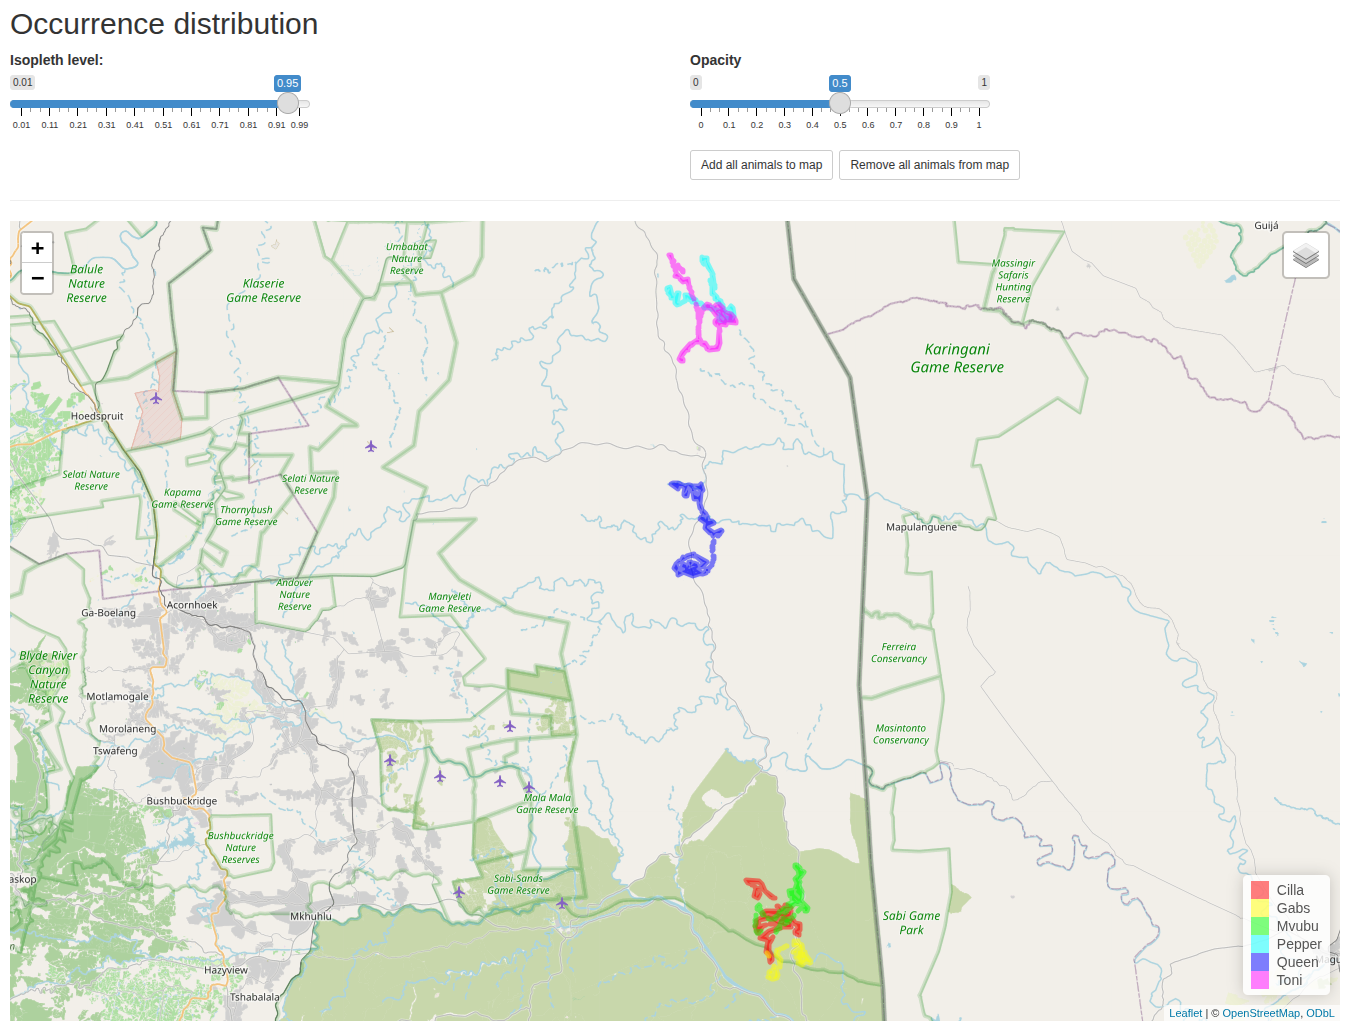
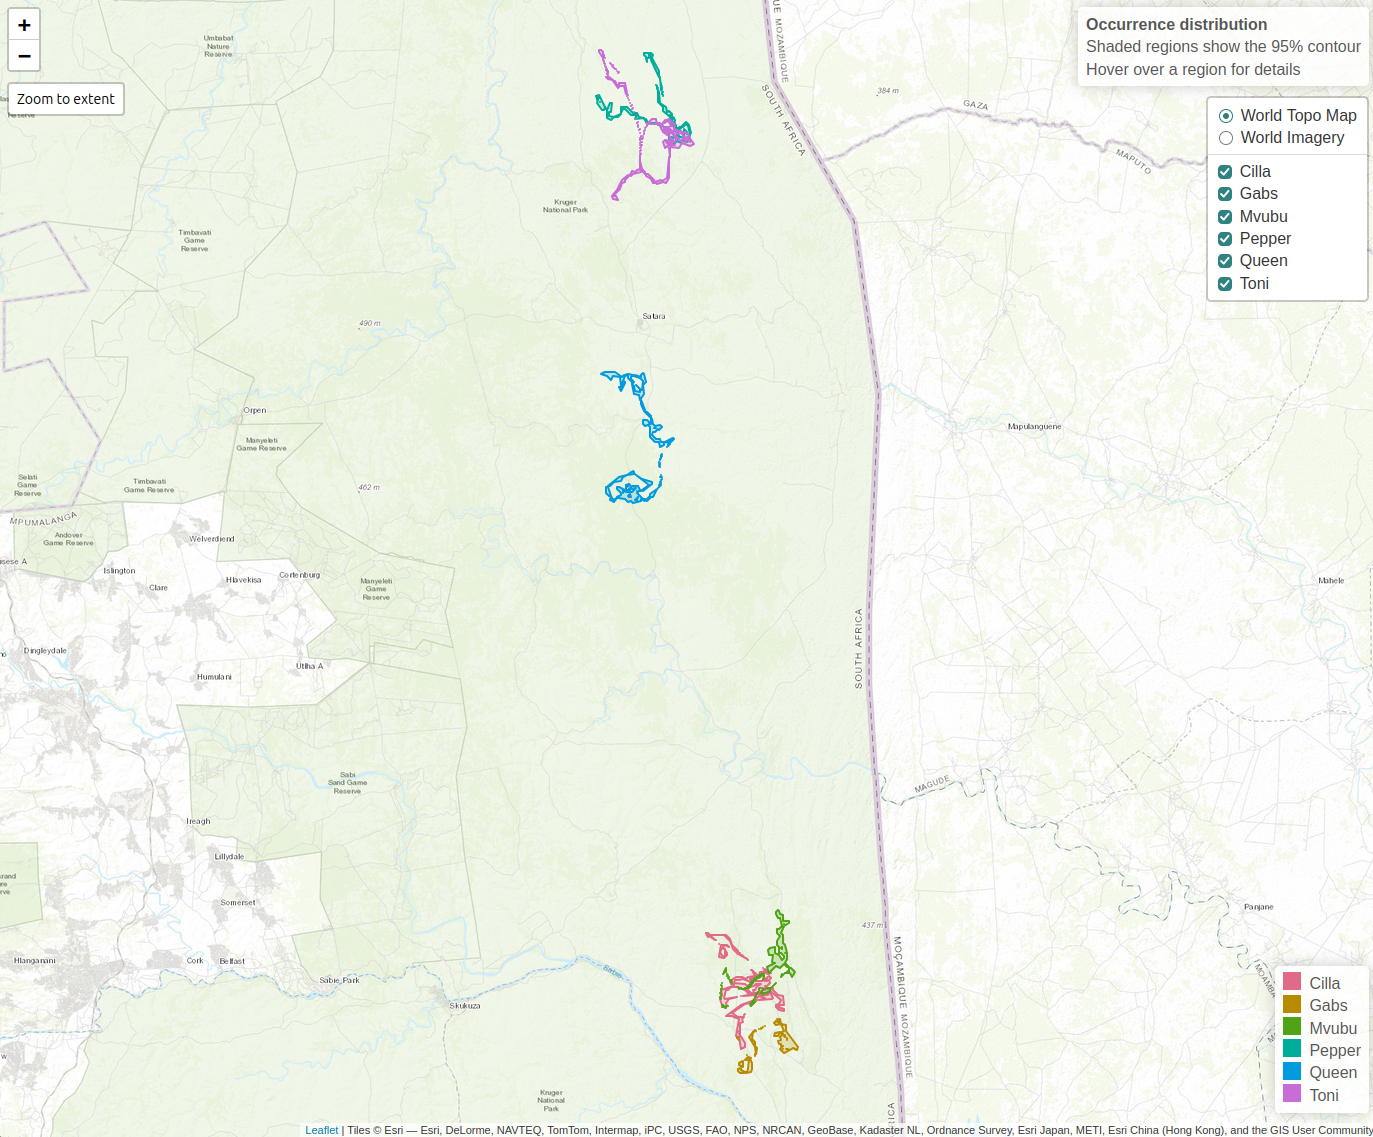
Update README

diff --git a/README.md b/README.md
@@ -5,18 +5,15 @@ MoveApps
 GitHub repository: https://github.com/movestore/ctmm_occurrence
 
 <p align="center">
-  <img alt="Screenshot of the App's UI" src="readme_thumbnail.png" width="700">
+  <img alt="Interactive map of the occurrence distributions of six animals" src="readme_thumbnail.png" width="700">
 </p>
 
 ## Description
 Use a fitted continuous-time movement model (CTMM) to estimate the occurrence
-distribution for each of a set of animals using Kriging and display the
-results on an interactive map.
+distribution for each of a set of tracked animals using Kriging, with contours
+at one or more isopleth levels.
 
 ## Documentation
-This App calculates one occurrence distribution per track present in the input
-data and plots its contour on an interactive map.
-
 An occurrence distribution describes where an animal may have been during the
 period it was tracked. The ctmm package uses Kriging to estimate the occurrence
 distribution. The fitted movement model for each animal is used to infer the
@@ -26,6 +23,21 @@ around that path.
 When recorded locations are dense, the occurrence distribution fits closely
 to the recorded locations. When they are sparse, the possible paths the animal
 took are more numerous, and the occurrence distribution is wider.
+
+This App calculates one occurrence distribution per animal in the input data.
+It then derives the contours for the provided isopleth levels from each of
+those distributions. These results are provided in several forms:
+
+- an interactive map of the occurrence distributions of all animals on a
+  basemap
+- a PDF containing static maps of all animals' occurrence distributions at the
+  given isopleth levels as well as each animal's individual occurrence
+  distribution
+- the contours as a GeoPackage
+- the occurrence distributions as image raster files
+
+The occurrence distributions are also passed on to the next App in the
+Workflow.
 
 Note that the occurrence distribution is a distinct concept from the
 range distribution estimated by the
@@ -67,71 +79,80 @@ Apps, it does not require range-resident behavior.
    `telemetry.list`).
 
 ### Artefacts
-`occurrence.gpkg`: a GeoPackage with the occurrence distribution contour of
-each animal at the **Isopleth level** selected in the App. Each animal is
-represented by one feature (which may consist of multiple polygons) that
-includes a `name` column containing the animal's name and the selected isopleth
-level (e.g., "Cilla 95% est"). The coordinates are in the local map projection
-that ctmm uses for the tracking data.
+The contours, plots and map are created for each isopleth level given in the
+**Isopleth level(s)** setting.
+
+`occurrence_map.html`: an interactive map of the occurrence distributions of
+all animals, as a single HTML file that can be opened in a web browser. The map
+shows each animal's occurrence distribution contours for each of the
+requested isopleth levels.
+
+`occurrence_plots.pdf`: static plots of the occurrence distributions,
+including an overall plot with all animals for each isopleth level as well as
+plots for each animal individually.
+
+`occurrence.gpkg`: a GeoPackage with the occurrence distribution contours of
+all animals as polygons, with one feature per animal and isopleth level (a
+feature may consist of multiple polygons). It contains the following columns:
+  - `id`: the name of the animal.
+  - `level`: the isopleth level.
+  - `name`: the contour name given by `ctmm`, e.g. "Cilla 95% est".
+
+The coordinates are in the local map projection that ctmm uses for the
+tracking data.
 
 `occurrence_uds.zip`: a zip archive with one GeoTIFF file per animal
 (`<animal>.tif`) containing its occurrence distribution in raster format.
 Each cell's value is the probability that the animal was located within the
-contour line passing through that cell during the tracking period. For
-example, the cells with a value of 0.95 or less together make up the
-95% contour. The coordinates are in the local map projection that ctmm uses for
+contour line passing through that cell during the tracking period.
+The coordinates are in the local map projection that ctmm uses for
 the tracking data.
 
 ### Settings
-**Isopleth level**: The coverage level of the occurrence distribution. This is
-the smallest area in which the animal had the given probability of being
-present during the tracking period. For example, a level of 0.95 gives the area
-within which the animal was 95% likely to have been present during the tracking
-period. Defaults to 0.95.
-
-**Opacity**: The opacity of the filled contours on the map, from 0
-(transparent) to 1 (opaque). Defaults to 0.5.
-
-**Add all animals to map** / **Remove all animals from map**: Show or hide
-all animals on the map. Individual animals can be toggled using the checkboxes
-in the layer menu in the top-right corner of the map itself.
-
-**Store settings**: Click to store the current settings of the App for future
-Workflow runs.
-
-**Restore default settings**: Click to restore the App's default settings.
+**Isopleth level(s) (`isopleth_levels`):** The coverage levels of the
+occurrence distribution to draw contours for. Each level should be a number
+between 0 and 1. If multiple are provided, separate them with commas. Each
+value gives the smallest area in which the animal had the given probability of
+being present during the tracking period. For instance, 0.95 gives the area
+within which the animal was 95% likely to have been present during the
+tracking period. Defaults to `0.95`.
 
 ### Changes in output data
 The App adds the occurrence distribution of each animal to the input data (see
 [Output type](#output-type)). The models and tracking data remain unchanged.
 
 ### Errors and null handling
-**Performance:** For large data sets, calculating the occurrence distribution
-may take some time.
+**Setting `Isopleth level(s)`:** If the setting is empty, or if any value is
+not a number strictly between 0 and 1, the App stops with an error message
+that names the invalid value(s). A common mistake is to enter a percentage
+instead of a proportion (e.g. 95 instead of 0.95) or to separate values with
+something other than commas (e.g. spaces).
 
-**Access to the App's window:** The preceding *Fit a Continuous-Time Movement
-Model (ctmm)* App can take a long time to run (up to hours). Like all Apps with
-an interactive window, this App's window (the "OPEN APP UI" button) can only
-be opened for 8 hours after the Workflow has run. To open it again later, the
-Workflow has to be run again. To avoid fitting the models again, first pin the
-Workflow to the *Fit a Continuous-Time Movement Model (ctmm)* App (menu at
-the top-right corner of that App, *"Pin to this App"*). An App can only be
-pinned once it has run and produced results.
+**Many isopleth levels:** Plots and maps become hard to read with many
+levels, as the contours of nearby levels overlap and their colours become
+similar. No more than two or three levels is recommended.
+
+**Performance:** For large data sets, calculating the occurrence distributions
+may take some time.
 
 ### Technical details
 The occurrence distributions are calculated with [`ctmm::occurrence()`][1],
 with the function's default settings. Each animal's occurrence distribution
 is based on its own fitted model.
 
-The contours are calculated with `ctmm::SpatialPolygonsDataFrame.UD()` at the
-selected isopleth level. The rasters are written with ctmm's `writeRaster()`
-method for UDs, which writes the cumulative distribution function (CDF) by
-default.
+The contours are calculated with `ctmm::SpatialPolygonsDataFrame.UD()` at each
+isopleth level. The rasters are written with ctmm's `writeRaster()` method for
+UDs, which writes the cumulative distribution function (CDF) by default. The
+PDF plots use ctmm's `plot()` method; the map is made with the `leaflet`
+package.
 
 Note: ctmm 1.3.x does not mark holes within a contour. This App identifies
 nested contour rings so that areas inside the outer contour that are not part
-of the occurrence area at the selected isopleth level are left out of the
+of the occurrence area at the indicated isopleth level are left out of the
 output polygons.
+
+On the map only, the contour coordinates are rounded to about 1 m to keep the
+HTML file small. The GeoPackage keeps the full precision.
 
 Long gaps in the tracking data are only partially interpolated to prevent
 the occurrence distribution from disproportionately representing the movement
